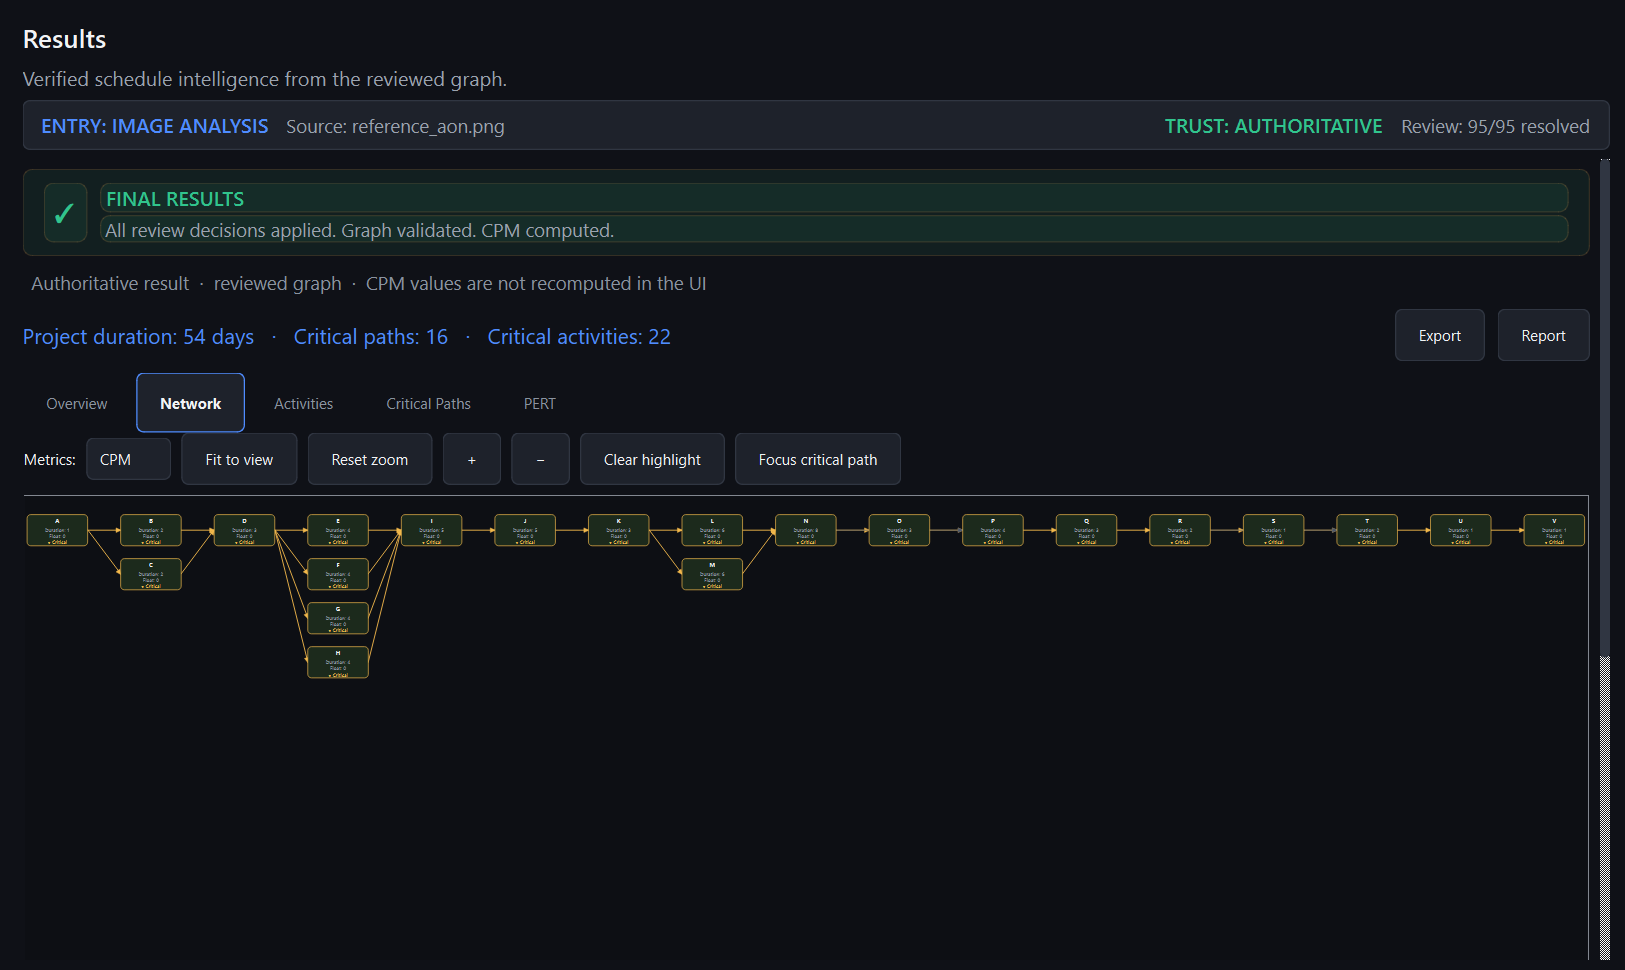
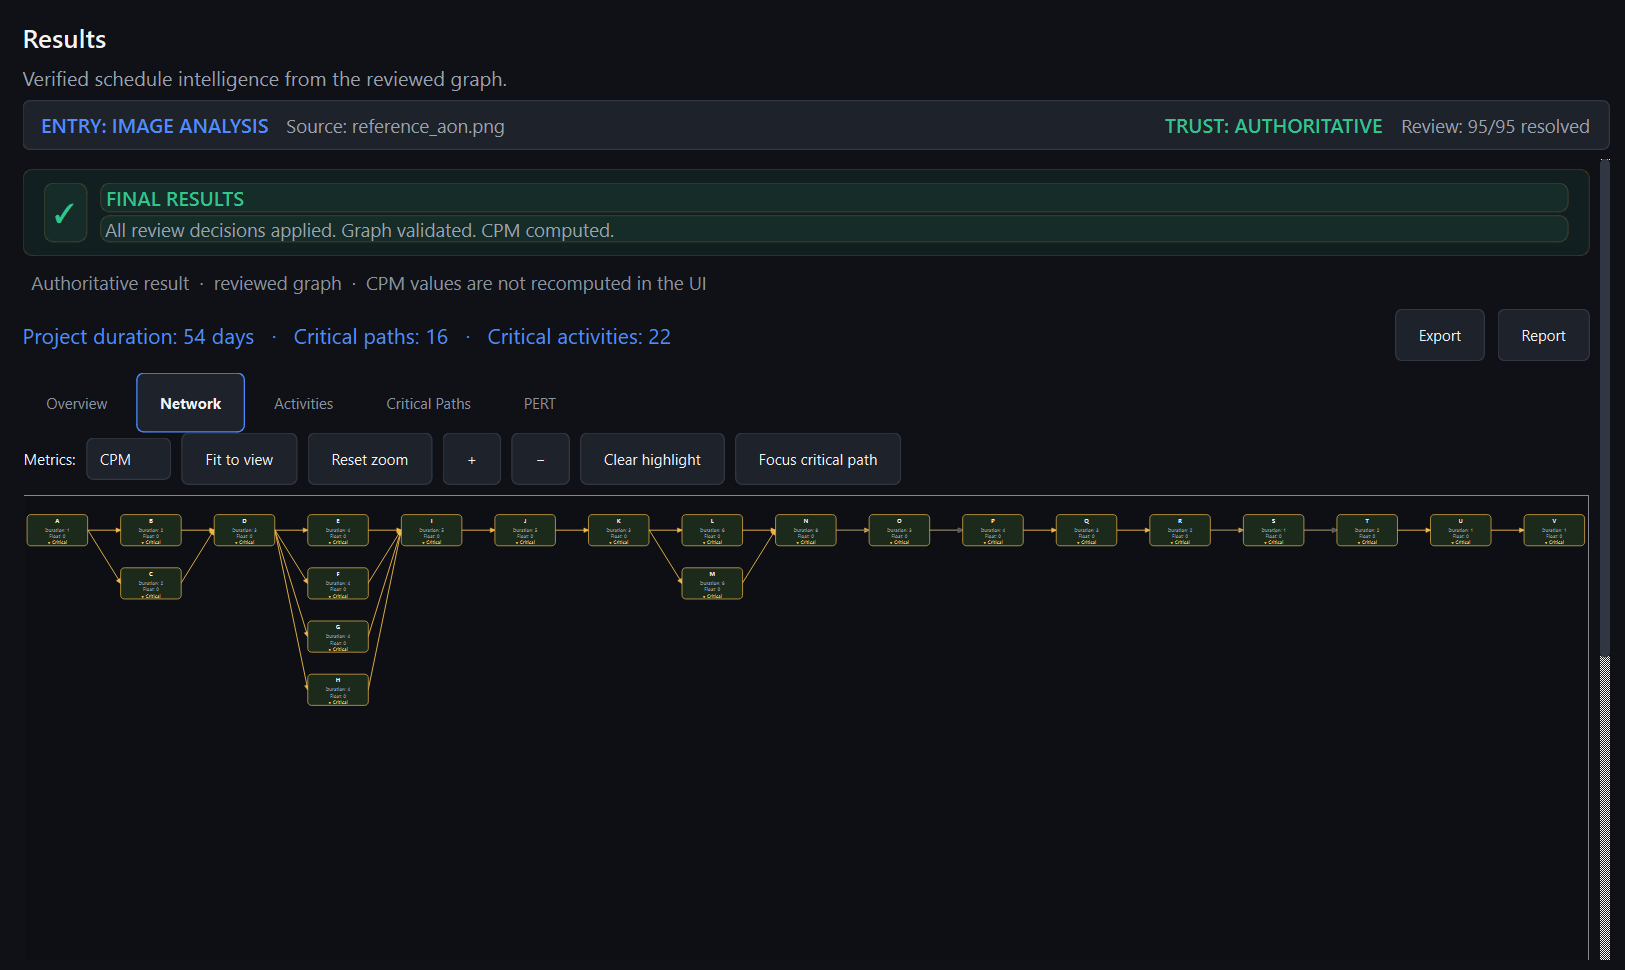
batch B-5: cycle feedback loops route cleanly; tiered row layout
- layout layering now ignores feedback edges (deterministic DFS back
  edge detection), so a drawn cycle A->B->C->A keeps its natural
  column order instead of spiralling B/C/A out of place
- feedback arrows render as a styled return channel below the diagram:
  exit the source's bottom edge, drop, run across, rise into the
  target's bottom edge with an upward arrowhead - the old straight
  return line sliced through every node on its way, unreadable endpoints
- rows inside a column order by predecessor barycenter (ties by id)
  instead of plain alphabetical, so real activity names keep natural
  lanes and crossings shrink; chains still share one row (pinned)
- V_SPACING 28 -> 48: parallel tiers breathe and read as ranks, shared
  with the results network canvas (capture 07 refreshed)

Changed region(s): [[0.1538, 0.5567, 0.2462, 0.7423], [0.4, 0.5567, 0.4615, 0.6186], [0.0615, 0.5567, 0.1231, 0.6186]]

diff --git a/pert_analyzer/gui/pages/network_builder_page.py b/pert_analyzer/gui/pages/network_builder_page.py
@@ -1095,9 +1095,28 @@ class NetworkBuilderPage(QWidget):
             self._graph_nodes[aid] = node
 
         self._graph_edges = []
+        # Feedback relationships (cycles the user is still drawing) leave
+        # the source's bottom edge and return through a horizontal channel
+        # below the whole diagram, so they never slice across the columns.
+        max_bottom = max((y + h for _, y, _, h in positions.values()),
+                         default=0.0)
+        channel_base = max_bottom + 28.0
+        channel_used = 0
         for r in rels:
+            sx, sy, sw, sh = positions[r.source]
+            tx, ty, tw, th = positions[r.target]
             start, end = network_layout.edge_points(positions, r.source, r.target)
-            edge = _GraphEdgeItem(r.source, r.target, start, end)
+            loop_channel = None
+            if tx < sx - 1.0:
+                start = (sx + sw / 2, sy + sh)
+                end = (tx + tw / 2, ty + th)
+                # One nesting step per feedback edge keeps shared channels
+                # from collapsing onto each other.
+                loop_channel = channel_base + channel_used * 18.0
+                channel_used += 1
+            edge = _GraphEdgeItem(
+                r.source, r.target, start, end, loop_channel
+            )
             edge.set_selected(
                 self._model.selected_relationship == (r.source, r.target)
             )
@@ -1383,7 +1402,8 @@ class _GraphEdgeItem(QGraphicsRectItem):
     arrowhead, with a fat invisible hit-rect for easier selection.
     """
 
-    def __init__(self, source: str, target: str, start, end) -> None:
+    def __init__(self, source: str, target: str, start, end,
+                 channel: float | None = None) -> None:
         super().__init__()
         self._source = source
         self._target = target
@@ -1391,18 +1411,22 @@ class _GraphEdgeItem(QGraphicsRectItem):
         self._start = QPointF(start[0], start[1])
         self._end = QPointF(end[0], end[1])
         self._is_selected = False
+        # Feedback (cycle) edges route through a horizontal return channel
+        # below the diagram; None means a normal forward/straight edge.
+        self._channel = channel
 
-        dx = self._end.x() - self._start.x()
-        dy = self._end.y() - self._start.y()
-        length = max(1.0, (dx * dx + dy * dy) ** 0.5)
-        dir_x, dir_y = dx / length, dy / length
-        del dir_x, dir_y
         perp = 6.0
+        left = min(self._start.x(), self._end.x())
+        right = max(self._start.x(), self._end.x())
+        top = min(self._start.y(), self._end.y())
+        bottom = channel if channel is not None else max(
+            self._start.y(), self._end.y()
+        )
         self.setRect(
-            min(self._start.x(), self._end.x()) - perp,
-            min(self._start.y(), self._end.y()) - perp,
-            abs(dx) + 2 * perp,
-            abs(dy) + 2 * perp,
+            left - perp,
+            top - perp,
+            (right - left) + 2 * perp,
+            (bottom - top) + 2 * perp,
         )
         self.setPen(QPen(QColor(0, 0, 0, 0)))
         self.setBrush(QColor(0, 0, 0, 0))
@@ -1447,26 +1471,50 @@ class _GraphEdgeItem(QGraphicsRectItem):
         ]))
 
     def _route(self) -> Optional[tuple]:
-        """Connector route: straight line when the two rows align or the
-        edge runs backwards (only the decorative empty-canvas glyph does);
-        otherwise a rounded right-angle elbow out of the source's right
-        side, a vertical turn inside the inter-column gap, then into the
-        target's left side. Straight diagonals used to slice close past
-        the neighbouring nodes (C->D / B->D in small networks). Returns
-        ``(path, final_angle)``; the path is None for straight lines.
+        """Connector route, in priority order:
+
+        1. Feedback edge with a return channel (cycle relationships):
+           leaves the source's bottom edge, drops into the horizontal
+           channel below the diagram, runs across, rises again and enters
+           the target's bottom edge with an upward arrowhead. A straight
+           return line used to slice through every node on its way.
+        2. Forward elbow: straight line when the two rows align; else a
+           rounded right-angle elbow out of the source's right side, a
+           vertical turn inside the inter-column gap, then into the
+           target's left side (straight diagonals used to slice close
+           past the neighbouring nodes, C->D / B->D).
+        3. Backwards without a channel (decorative glyph only): plain
+           straight line.
+
+        Returns ``(path, final_angle)``; the path is None for straight
+        lines.
         """
         start, end = self._start, self._end
+        if self._channel is not None:
+            down = 9.0
+            turn_in = 1.0 if end.x() > start.x() else (
+                -1.0 if end.x() < start.x() else 1.0
+            )
+            ch = self._channel
+            path = QPainterPath(start)
+            path.lineTo(start.x(), ch - down)
+            path.quadTo(QPointF(start.x(), ch),
+                        QPointF(start.x() + turn_in * down, ch))
+            path.lineTo(end.x() - turn_in * down, ch)
+            path.quadTo(QPointF(end.x(), ch), QPointF(end.x(), ch - down))
+            path.lineTo(end)
+            return path, -math.pi / 2
         if end.x() <= start.x() or abs(end.y() - start.y()) < 2.0:
             return None, math.atan2(end.y() - start.y(),
                                     end.x() - start.x())
-        down = 1.0 if end.y() > start.y() else -1.0
         r = min(9.0, abs(end.y() - start.y()) / 2)
         gap = end.x() - start.x()
         mid_x = start.x() + max(12.0, min(36.0, gap / 2))
         path = QPainterPath(start)
+        down_s = 1.0 if end.y() > start.y() else -1.0
         path.lineTo(mid_x - r, start.y())
-        path.quadTo(mid_x, start.y(), mid_x, start.y() + down * r)
-        path.lineTo(mid_x, end.y() - down * r)
+        path.quadTo(mid_x, start.y(), mid_x, start.y() + down_s * r)
+        path.lineTo(mid_x, end.y() - down_s * r)
         path.quadTo(mid_x, end.y(), mid_x + r, end.y())
         path.lineTo(end)
         # The final run enters the target horizontally from the left.

diff --git a/pert_analyzer/gui/results/layout.py b/pert_analyzer/gui/results/layout.py
@@ -11,14 +11,74 @@ logical level, and arranges rows deterministically by activity id.
 from __future__ import annotations
 
 from collections import defaultdict, deque
-from typing import Any, Dict, List, Tuple
+from typing import Any, Dict, List, Set, Tuple
 
 
 NODE_WIDTH = 132
 NODE_HEIGHT = 68
 H_SPACING = 72
-V_SPACING = 28
+V_SPACING = 48
 MARGIN = 40
+
+
+def _back_edges(
+    activity_ids: List[str],
+    edge_pairs: List[Tuple[str, str]],
+) -> Set[Tuple[str, str]]:
+    """Edges that close a feedback loop, found by deterministic DFS.
+
+    Roots and neighbours are visited in sorted order, so the detected
+    back-edge set never depends on dict or insertion order. The layering
+    ignores these edges: a cycle keeps its natural column order instead
+    of spiralling, and its arrow renders as a return channel below.
+    """
+    succ: Dict[str, List[str]] = defaultdict(list)
+    for src, tgt in edge_pairs:
+        succ[src].append(tgt)
+
+    WHITE, GRAY, BLACK = 0, 1, 2
+    state: Dict[str, int] = {aid: WHITE for aid in activity_ids}
+    back: Set[Tuple[str, str]] = set()
+    for root in sorted(activity_ids):
+        if state[root] != WHITE:
+            continue
+        state[root] = GRAY
+        stack: List[Tuple[str, Any]] = [
+            (root, iter(sorted(succ.get(root, []))))
+        ]
+        while stack:
+            node, it = stack[-1]
+            advanced = False
+            for nxt in it:
+                if state[nxt] == GRAY:
+                    back.add((node, nxt))
+                elif state[nxt] == WHITE:
+                    state[nxt] = GRAY
+                    stack.append(
+                        (nxt, iter(sorted(succ.get(nxt, []))))
+                    )
+                    advanced = True
+                    break
+            if not advanced:
+                state[node] = BLACK
+                stack.pop()
+    return back
+
+
+def _row_barycenter(
+    aid: str,
+    predecessors: Dict[str, List[str]],
+    rows: Dict[str, int],
+) -> float:
+    """Row placement weight: mean row of already-placed predecessors.
+
+    Roots (nothing placed yet) float to the top of their column; ties
+    break by id, keeping the whole layout deterministic.
+    """
+    placed = [rows[p] for p in predecessors.get(aid, []) if p in rows]
+    if not placed:
+        return -1.0
+    return sum(placed) / len(placed)
 
 
 def build_layout(
@@ -48,11 +108,22 @@ def build_layout(
         if src is None or tgt is None:
             continue
         if src in id_set and tgt in id_set:
-            successors[src].append(tgt)
-            predecessors[tgt].append(src)
             edge_pairs.append((src, tgt))
 
-    indegree = {aid: len(predecessors.get(aid, [])) for aid in activity_ids}
+    # Layering ignores feedback edges: they close loops, so feeding them
+    # to Kahn's algorithm stalls it and the old fallback then re-processed
+    # them, spiralling cycle columns out of order.
+    layout_edges = [p for p in edge_pairs if p not in _back_edges(activity_ids, edge_pairs)]
+
+    successors: Dict[str, List[str]] = defaultdict(list)
+    predecessors: Dict[str, List[str]] = defaultdict(list)
+    for src, tgt in layout_edges:
+        successors[src].append(tgt)
+        predecessors[tgt].append(src)
+
+    indegree = {aid: 0 for aid in activity_ids}
+    for src, tgt in layout_edges:
+        indegree[tgt] += 1
     ready = deque(sorted(aid for aid in activity_ids if indegree[aid] == 0))
     topo_order: List[str] = []
     while ready:
@@ -62,7 +133,8 @@ def build_layout(
             indegree[nxt] -= 1
             if indegree[nxt] == 0:
                 ready.append(nxt)
-    # Any unvisited (disconnected) nodes keep a stable appendix.
+    # Pure safety net: any stray node (should be none once loops are
+    # filtered) keeps a stable appendix without further propagation.
     for aid in sorted(activity_ids):
         if aid not in set(topo_order):
             topo_order.append(aid)
@@ -79,9 +151,17 @@ def build_layout(
     col_step = node_width + h_spacing
     row_step = node_height + v_spacing
     positions: Dict[str, Tuple[float, float, float, float]] = {}
+    rows: Dict[str, int] = {}
     for lvl in sorted(by_level):
-        ids_in_level = sorted(by_level[lvl])
-        for row, aid in enumerate(ids_in_level):
+        # Barycenter row order instead of plain alphabetical: nodes line
+        # up under their predecessors, which removes most edge crossings
+        # and gives real activity names their natural lanes back.
+        ordered = sorted(
+            by_level[lvl],
+            key=lambda a: (_row_barycenter(a, predecessors, rows), a),
+        )
+        for row, aid in enumerate(ordered):
+            rows[aid] = row
             x = margin + lvl * col_step
             y = margin + row * row_step
             positions[aid] = (float(x), float(y), float(node_width), float(node_height))
